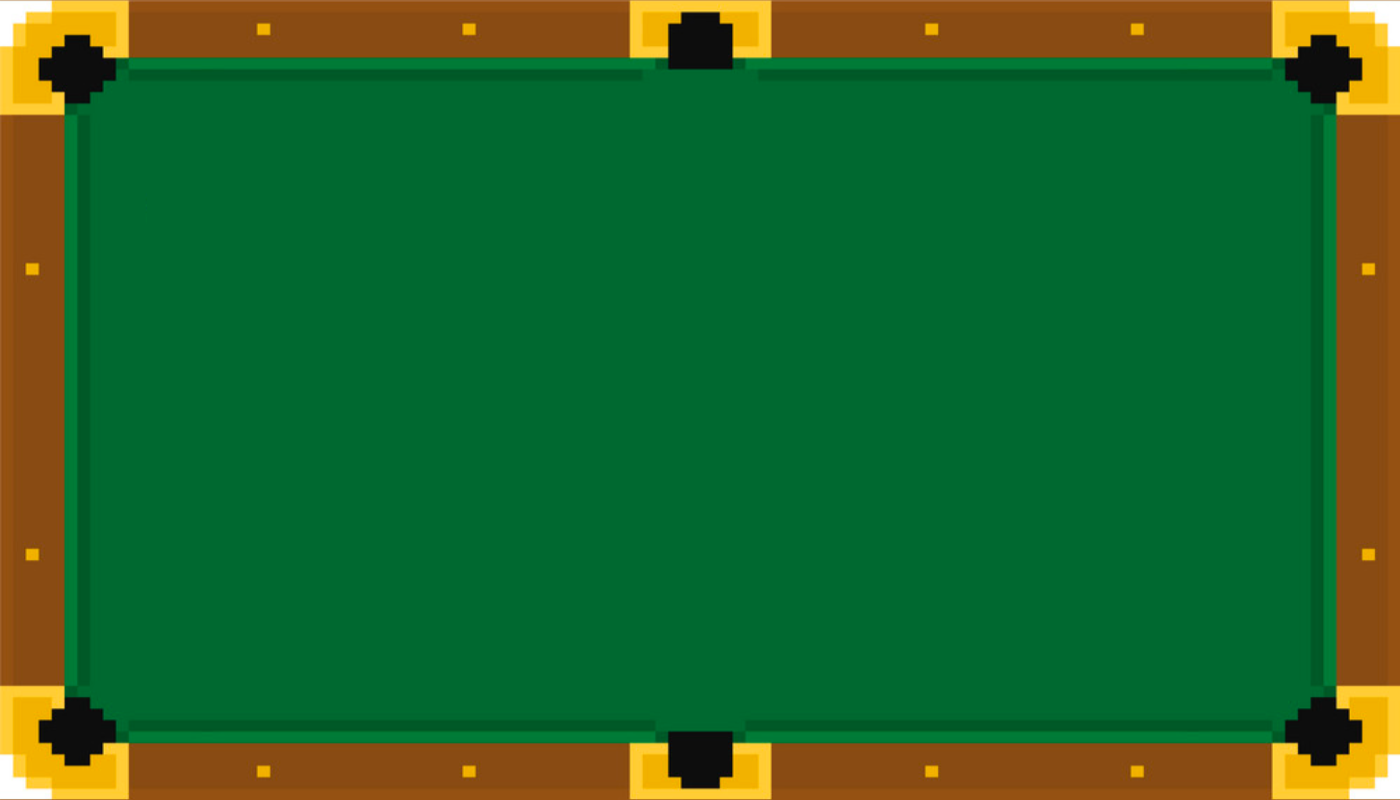
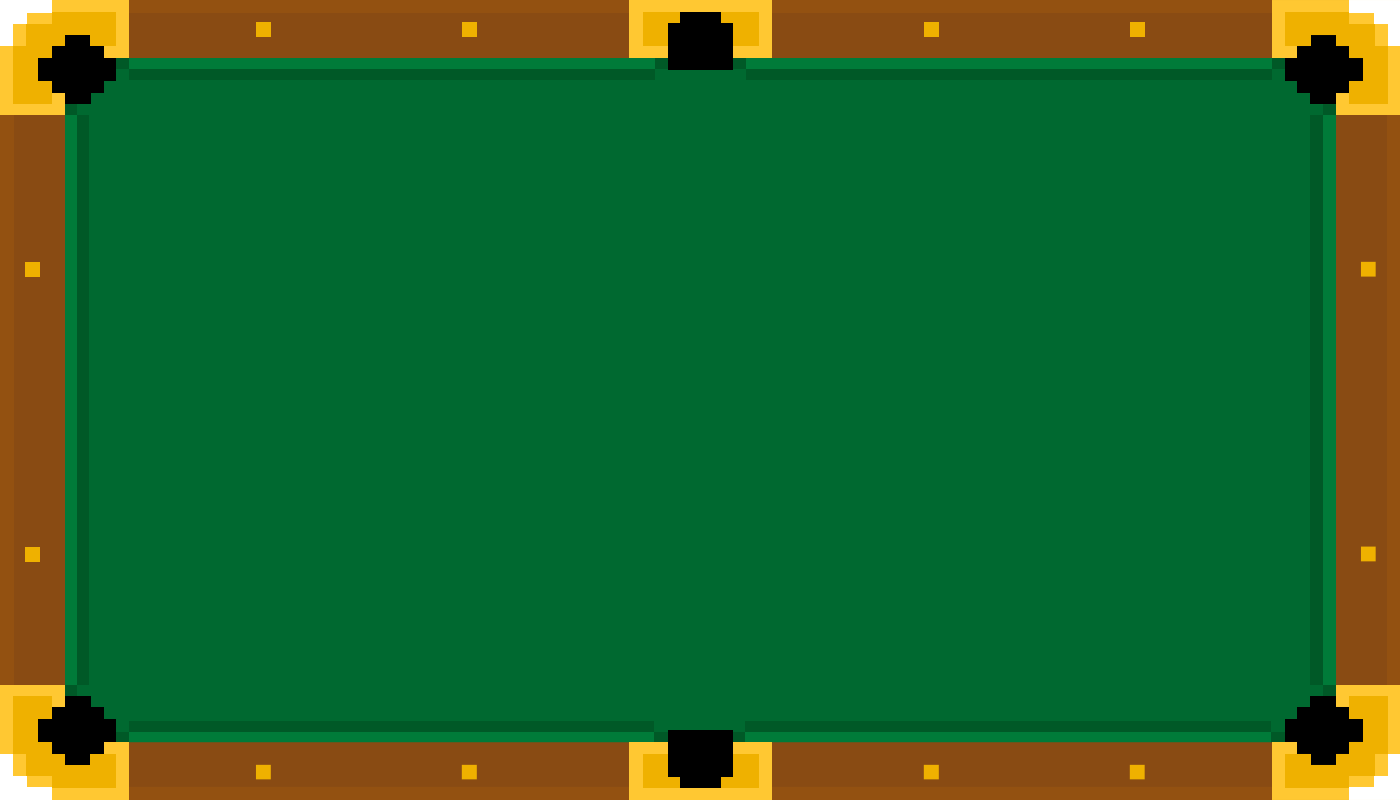
removed pot class

diff --git a/src/colorpool/core/Movements.java b/src/colorpool/core/Movements.java
@@ -2,7 +2,7 @@ package colorpool.core;
 
 import javax.swing.JOptionPane;
 
-import colorpool.Main;
+import colorpool.config.Settings;
 
 public class Movements {
 	
@@ -64,9 +64,9 @@ public class Movements {
 		if(b.isOutX()) {
 			b.changeDirectionX();
 			if(b.dirx)
-				b.x += b.vx;
+				b.x = Settings.POOLMINX;
 			else
-				b.x -= b.vx;
+				b.x = Settings.POOLMAXX-b.getD();
 		}
 		
 		if(b.diry)
@@ -77,9 +77,9 @@ public class Movements {
 		if(b.isOutY()) {
 			b.changeDirectionY();
 			if(b.diry)
-				b.y += b.vy;
+				b.y = Settings.POOLMINY;
 			else
-				b.y -= b.vy;
+				b.y = Settings.POOLMAXY-b.getD();
 		}
 		
 	}
@@ -97,56 +97,31 @@ public class Movements {
 			b.vy = 0;
 	}
 	
-	//Controlla se le palline sono andate in buca
+	//Controlla tutte le palline per vedere se una è andata in buca
 	private static void potting() {
-        //Pallina bianca
-		Pot p = potted(Game.getGame().whiteball);
-		if(p != null){
-			stopBalls();
-			for(int i=0; i<5; i++) {
-				Main.t.panel.repaint();
-				moveBall(Game.getGame().whiteball);
-			}
-			Main.t.panel.repaint();
+		if(potted(Game.getGame().whiteball)) {
 			JOptionPane.showMessageDialog(null, "Palla bianca imbucata");
 			Game.getGame().restartGame();
 		}
-        //Palline colorate
 		for(Ball b: Game.getGame().balls) {
-			p = potted(b);
-			if(p!=null) {
-				stopBalls();
-				for(int i=0; i<5; i++) {
-					Main.t.panel.repaint();
-					moveBall(b);
-				}
-				Main.t.panel.repaint();
+			if(potted(b)) {
 				JOptionPane.showMessageDialog(null, "Palla imbucata!");
 				Game.getGame().point();
 			}
 		}
 	}
-	//Controlla se la palla è andata in buca, confrontando con tutte le buche
-	private static Pot potted(Ball b) {
-		for(Pot p: Game.getGame().pots) {
-			if (potted(b, p))
-				return p;
+	
+	//Controlla se la singola pallina è andata in buca
+	private static boolean potted(Ball b) {
+		int x = (int) b.x, y = (int) b.y;
+		if((x>=668 - b.getR() && x<=733) && b.isOutY()) {
+			return true;
+		}
+		else if(b.isOutX() && (y>=695 || y<=104)) {
+			return true;
 		}
 			
-		return null;
-	}
-	//Confronto una pallina con una buca, simile al confronto di collisione
-	public static boolean potted(Ball b, Pot p) {
-		double x1 = b.x + b.getR();
-		double x2 = p.getX() + p.getR();
-		
-		double y1 = b.y + b.getR();
-		double y2 = p.getY() + p.getR();
-		
-		double distanceSquared = (x1 - x2) * (x1 - x2) + (y1 - y2) * (y1 - y2);
-		
-		return distanceSquared <= (b.getR() + p.getR()) * (b.getR() + p.getR());
-		
+		return false;
 	}
 	
 	//Gestisce le collisioni tra tutte le palline
@@ -191,7 +166,7 @@ public class Movements {
 		b2.convertBoolVec();
 		//Bugfixing per scambio palline
 		if((b1.vx>0&&b2.vx<0||b1.vx<0&&b2.vx>0)^(b1.vy>0&&b2.vy<0||b1.vy<0&&b2.vy>0)) {
-			System.out.println("bug stuff here");
+			//TODO System.out.println("bug stuff here");
 		}
 		else {
 			//Calcolo l'angolo tra l'asse x e l'asse dell'impatto

diff --git a/src/colorpool/core/Game.java b/src/colorpool/core/Game.java
@@ -9,13 +9,12 @@ import colorpool.config.Settings;
 public class Game {
 	public WhiteBall whiteball;
 	public ArrayList<Ball> balls;
-	public ArrayList<Pot> pots;
+	//public ArrayList<Pot> pots;
 	public int points;
 	private static Game game = null;
 	
 	public Game(int p) {
 		this.points = p;
-		generatePots();
 		generateBalls();
 	}
 	
@@ -39,18 +38,6 @@ public class Game {
 		return true;
 	}
 	
-	private void generatePots() {
-		pots = new ArrayList<>();
-		
-		pots.add(new Pot(0, 0));
-		pots.add(new Pot(0, Settings.HEIGHT - Settings.POTDIMENSION));
-		pots.add(new Pot(Settings.WIDTH/2 - Settings.POTDIMENSION/2, 0));
-		pots.add(new Pot(Settings.WIDTH/2 - Settings.POTDIMENSION/2, Settings.HEIGHT-Settings.POTDIMENSION));
-		pots.add(new Pot(Settings.WIDTH - Settings.POTDIMENSION, 0));
-		pots.add(new Pot(Settings.WIDTH - Settings.POTDIMENSION, Settings.HEIGHT-Settings.POTDIMENSION));
-	}
-	
-	
 	private void generateBalls() {
 		whiteball = randomWhiteBall();
 		
@@ -69,22 +56,22 @@ public class Game {
 	
 	private WhiteBall randomWhiteBall() {
 		Random r = new Random();
-		int difference = Settings.WHITEBALLDIMENSION+Settings.POTDIMENSION+Settings.POTDIMENSION;
-		return new WhiteBall(r.nextInt(Settings.WIDTH-difference)+Settings.POOLMINX, r.nextInt(Settings.HEIGHT-difference)+Settings.POOLMINY);
+		int difference = Settings.WHITEBALLDIMENSION*4 + Settings.POOLMINX;
+		return new WhiteBall(r.nextInt(Settings.POOLMAXX-difference)+2*Settings.POOLMINX, r.nextInt(Settings.POOLMAXY-difference)+2*Settings.POOLMINY);
 	}
 	
 	private Ball randomBall(Color c) {
 		Random r = new Random();
-		int difference = Settings.BALLDIMENSION+Settings.POTDIMENSION+Settings.POTDIMENSION;
-		return new Ball(r.nextInt(Settings.WIDTH-difference)+Settings.POOLMINX, r.nextInt(Settings.HEIGHT-difference)+Settings.POOLMINY, c);
+		int difference = Settings.BALLDIMENSION*4 + Settings.POOLMINX;
+		return new Ball(r.nextInt(Settings.POOLMAXX-difference)+2*Settings.POOLMINX, r.nextInt(Settings.POOLMAXY-difference)+2*Settings.POOLMINY, c);
 	}
 	
 	private void initialControl(boolean control) {
         
 		for(Ball b: balls) {
 			if(Movements.ballsCollide(whiteball, b)) {
-				b.x += b.color.getRGB();
-				b.y += b.color.getRGB();
+				b.x += b.getD();
+				b.y += b.getD();
 			}
 			
 		}
@@ -92,8 +79,8 @@ public class Game {
         for(int i=0; i<balls.size() - 1; i++) {
             for(int j=i+1; j<balls.size(); j++) {
                 if(Movements.ballsCollide(balls.get(i),balls.get(j))) {
-                    balls.get(j).x += balls.get(i).color.getRGB();
-                    balls.get(j).y += balls.get(i).color.getRGB();
+                   balls.get(j).x += balls.get(i).getD()*j;
+                   balls.get(j).y += balls.get(i).getD()*j;
                 }
             }
         }

diff --git a/src/colorpool/view/GamePanel.java b/src/colorpool/view/GamePanel.java
@@ -27,7 +27,7 @@ public class GamePanel extends JPanel {
 		g.drawImage(backgroundImg, 0, 0, null);
 		
 		drawBalls(g);
-		drawPots(g);
+		//drawPots(g);
         drawPointer(g);
         write(g);
 	}
@@ -42,8 +42,8 @@ public class GamePanel extends JPanel {
 			// TODO Error stuff
 		}
 		
-    	text = new JTextField(Integer.toString(Game.getGame().points));
-    	text.setBounds(50, 0, 30, 30);
+    	text = new JTextField(Integer.toString(Game.getGame().points) + " points");
+    	text.setBounds(150, 0, 100, 30);
     	text.setForeground(Color.WHITE);
     	text.setOpaque(false);
     	text.setBorder(null);
@@ -90,14 +90,14 @@ public class GamePanel extends JPanel {
 		}
 	}
 	
-	private void drawPots(Graphics g) 
+	/*private void drawPots(Graphics g) 
 	{
 		//DISEGNO BUCHE
-		g.setColor(Color.BLACK);
+		g.setColor(Color.WHITE);
 		for(Pot p: Game.getGame().pots) {
 			g.fillOval((int) p.getX(), (int) p.getY(), p.getDimension(), p.getDimension());
 		}
-	}
+	}*/
     
     private void drawPointer(Graphics g){
         if (p!=null) {
@@ -108,6 +108,6 @@ public class GamePanel extends JPanel {
     }
     
     private void write(Graphics g) {
-    	text.setText(Integer.toString(Game.getGame().points));
+    	text.setText(Integer.toString(Game.getGame().points) + " points");
     }
 }

diff --git a/src/colorpool/config/Settings.java b/src/colorpool/config/Settings.java
@@ -1,15 +1,10 @@
 package colorpool.config;
 
 import java.awt.Color;
-import java.awt.Dimension;
-import java.awt.Toolkit;
 
-public class Settings 
-{
-	//DIMENSIONE MASSIMA PER OGNI SCHERMO
-	private static Dimension screenSize = Toolkit.getDefaultToolkit().getScreenSize();
-	public static final int HEIGHT = (int)screenSize.getHeight();//800;
-	public static final int WIDTH = (int) screenSize.getWidth();
+public class Settings {
+	public static final int HEIGHT = 800;//800;
+	public static final int WIDTH = 1400;
 	
 	public static final int POOLMINX = 78;
 	public static final int POOLMINY = 70;
@@ -18,7 +13,6 @@ public class Settings
 	
 	public static final int BALLDIMENSION = 30;
 	public static final int WHITEBALLDIMENSION = 25;
-	public static final int POTDIMENSION = 40;
 	
 	public static final Color POOLCOLOR = new Color(23, 127, 26);
 	//abilita il tutorial all'inizio

diff --git a/src/colorpool/Main.java b/src/colorpool/Main.java
@@ -23,7 +23,7 @@ public class Main {
         
         TestButton testb = new TestButton();
         testb.addActionListener(new TestButtonListener());
-        testb.setBounds(Settings.WIDTH-110, 0, 70, 30);
+        testb.setBounds(Settings.WIDTH-250, 0, 100, 30);
         
         panel.setLayout(null);
         panel.add(testb);
